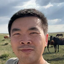
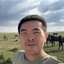
Scale down the portrait: full-frame crop and narrower column

diff --git a/assets/css/style.css b/assets/css/style.css
@@ -197,7 +197,7 @@ p:last-child { margin-bottom: 0; }
 
 .about {
   display: grid;
-  grid-template-columns: minmax(0, 1fr) 198px;
+  grid-template-columns: minmax(0, 1fr) 162px;
   gap: 46px;
   align-items: start;
 }
@@ -453,7 +453,7 @@ a.venue-badge.pre:hover { background: #fbeed9; box-shadow: none; }
   .nav-inner { padding: 0 20px; }
 
   .about { grid-template-columns: 1fr; gap: 26px; }
-  .portrait { order: -1; width: 132px; }
+  .portrait { order: -1; width: 120px; }
 
 
   li.pub { grid-template-columns: 72px minmax(0, 1fr); gap: 0 16px; }
@@ -499,7 +499,7 @@ a.venue-badge.pre:hover { background: #fbeed9; box-shadow: none; }
   li.pub { grid-template-columns: 1fr; gap: 7px; padding: 15px 0; }
   .venue-badge { width: auto; display: inline-block; padding: 3px 9px; margin: 0; font-size: 10.8px; }
 
-  .portrait { width: 112px; }
+  .portrait { width: 100px; }
 }
 
 @media print {

diff --git a/EDITING.md b/EDITING.md
@@ -163,15 +163,25 @@ python build_papers.py
    - `publications.html` 第 9 行（标签图标）
 
 照片由 CSS `border-radius: 50%` 裁成圆形，取的是正方形图片的中心，构图请把人脸放中间偏上。
-裁图命令（需要 Pillow）：
+当前这张是**整图不裁**直接缩放，这样圆里头像的占比最小；如果换成别的照片，按下面命令缩放即可
+（需要 Pillow）：
 
 ```python
 from PIL import Image
 src = Image.open("原图.jpg").convert("RGB")
-box = (90, 60, 710, 680)          # 620px 正方形，上方留出头发余白
-src.crop(box).resize((600, 600), Image.LANCZOS).save("assets/img/avatar.jpg", quality=88, optimize=True)
-src.crop(box).resize((64, 64), Image.LANCZOS).save("assets/img/avatar-64.png", optimize=True)
+src.resize((600, 600), Image.LANCZOS).save("assets/img/avatar.jpg", quality=88, optimize=True)
+src.resize((64, 64), Image.LANCZOS).save("assets/img/avatar-64.png", optimize=True)
 ```
+
+若原图人物偏小、圆里留白太多，再改成裁方形：
+
+```python
+box = (90, 60, 710, 680)          # 620px 正方形，依次为左、上、右、下
+src.crop(box).resize((600, 600), Image.LANCZOS).save("assets/img/avatar.jpg", quality=88, optimize=True)
+```
+
+头像的显示宽度在 `assets/css/style.css`：桌面 `grid-template-columns` 里的 `162px`，
+平板媒体查询 `.portrait { width: 112px }`，手机 `92px`。三处一起改才协调。
 
 ---
 
